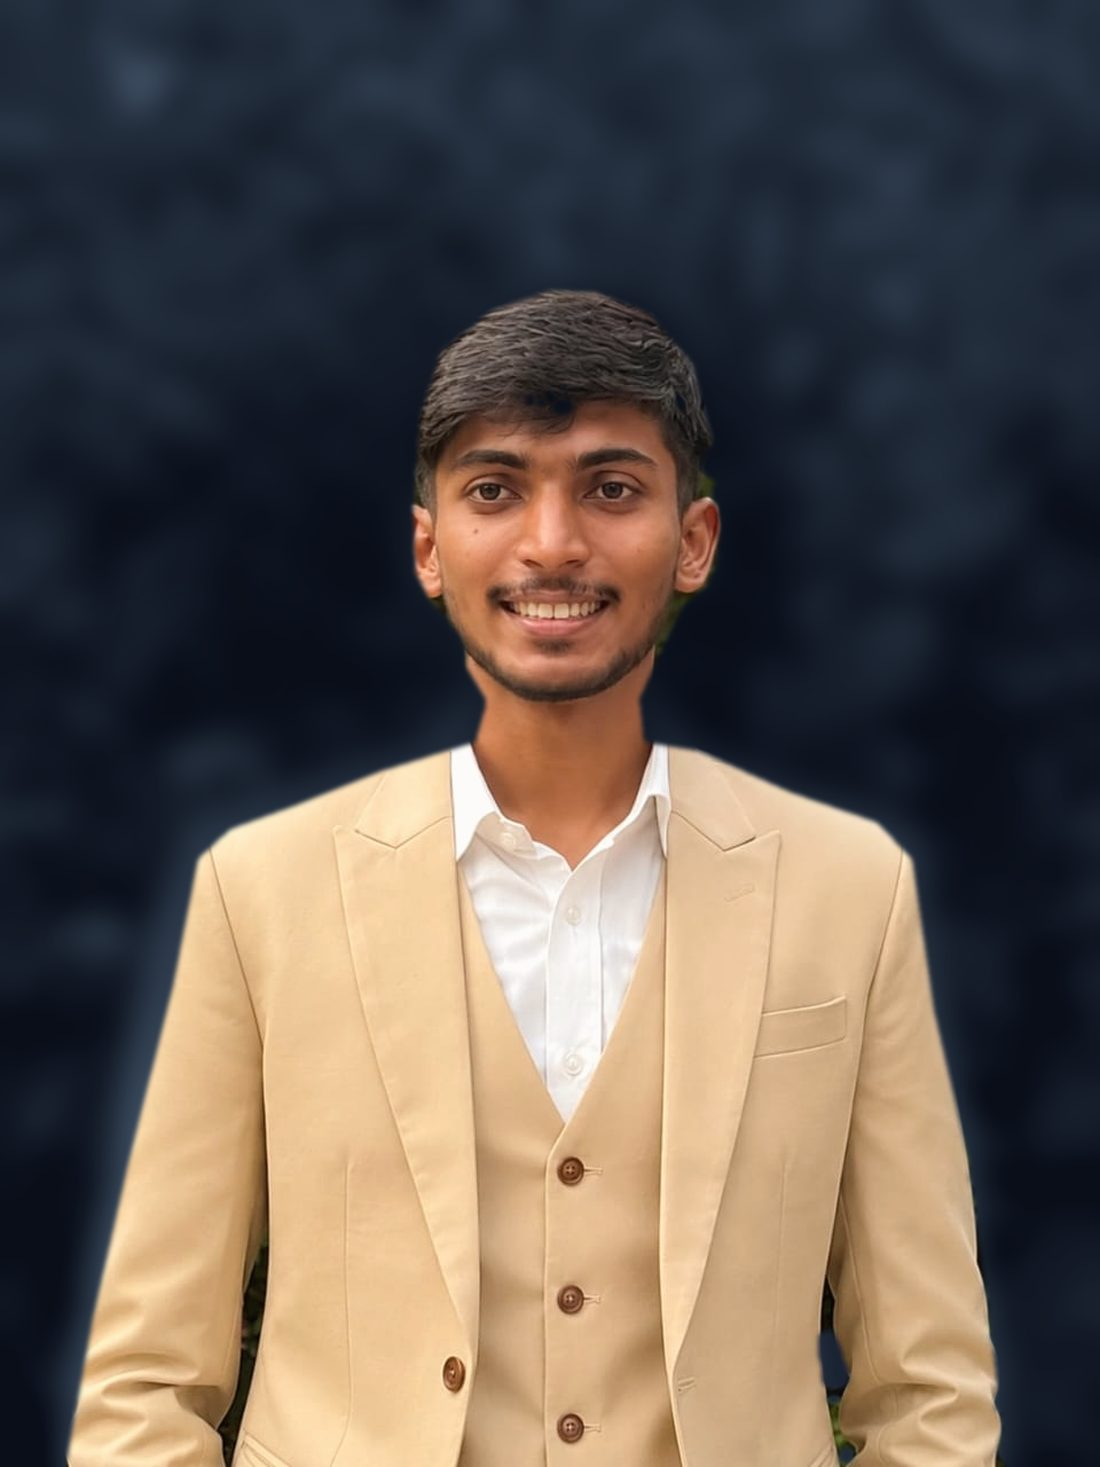
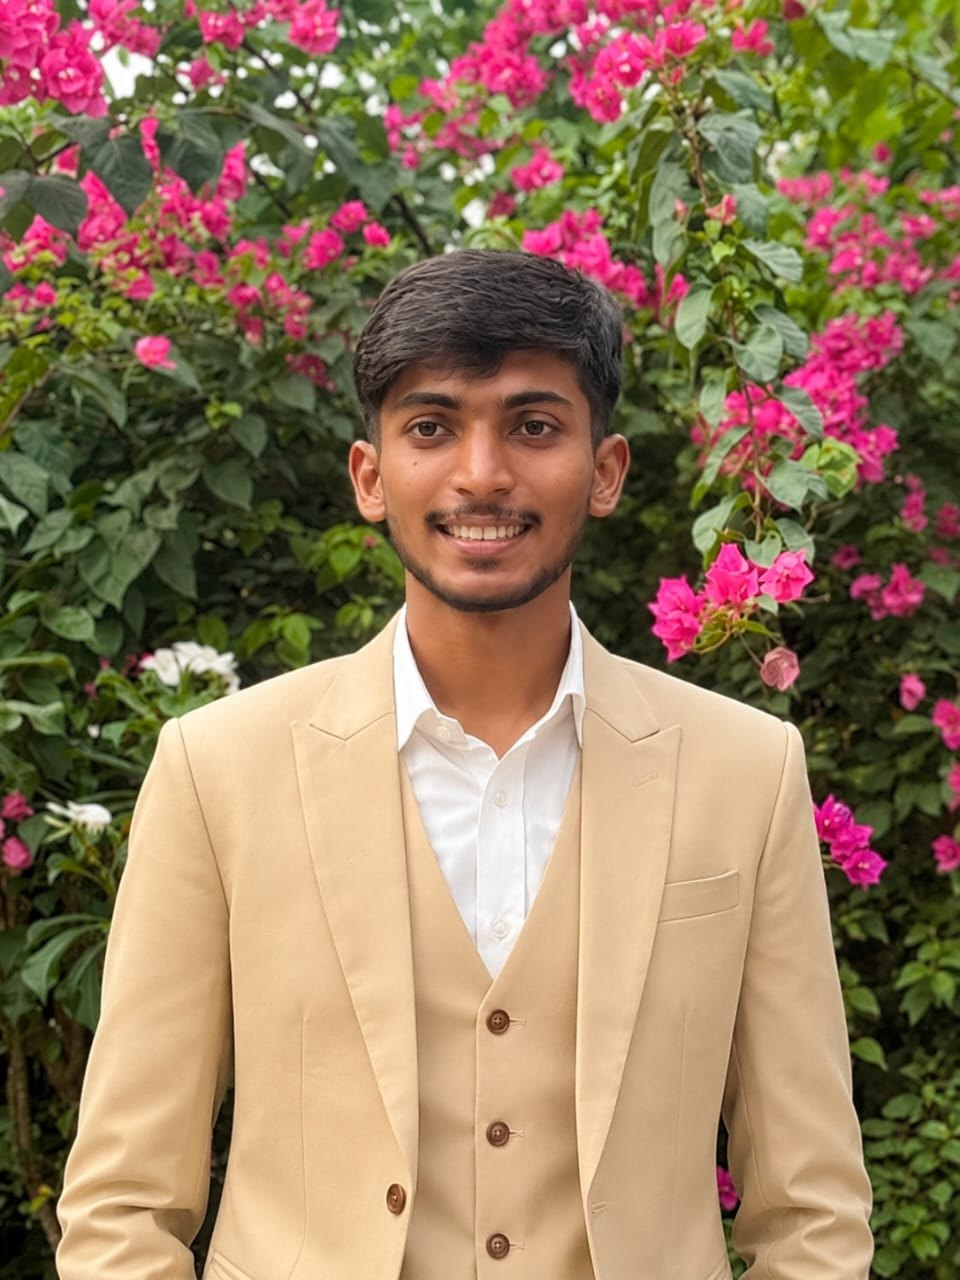
Yash portfolio: scroll-driven circuit-trace backdrop, original portrait photo

diff --git a/src/portfolios/yash/Backdrop.tsx b/src/portfolios/yash/Backdrop.tsx
@@ -1,0 +1,61 @@
+import { motion, useReducedMotion, useScroll, useSpring, useTransform } from "motion/react";
+
+type Seg = [d: string, endX: number, endY: number];
+
+// PCB-style traces kept to the page margins so they never strike through text. Wide screens and phones get their own layout.
+const wide: Seg[] = [
+  ["M0 120H18L34 136V400L18 416V500", 18, 500],
+  ["M0 600H18L34 616V780L18 796V880", 18, 880],
+  ["M1440 200H1350L1310 240V480L1270 520H1190", 1190, 520],
+  ["M1440 640H1380L1340 680V820L1300 860H1120", 1120, 860],
+  ["M1400 0V60L1360 100H1240", 1240, 100],
+];
+const narrow: Seg[] = [
+  ["M0 120H14L26 132V330", 26, 330],
+  ["M390 260H376L364 272V520", 364, 520],
+  ["M0 600H14L26 612V780", 26, 780],
+  ["M390 700H376L364 712V820", 364, 820],
+];
+
+const Traces = ({ paths, box, still }: { paths: Seg[]; box: string; still: boolean }) => {
+  const p = useSpring(useScroll().scrollYProgress, { stiffness: 80, damping: 24 });
+  return (
+    <svg viewBox={box} preserveAspectRatio="xMidYMid slice" fill="none" className="absolute inset-0 h-full w-full">
+      {paths.map(([d, x, y], i) => (
+        <Trace key={d} d={d} x={x} y={y} p={p} k={2 + (i % 3) * 0.6} still={still} />
+      ))}
+    </svg>
+  );
+};
+
+const Trace = ({ d, x, y, p, k, still }: { d: string; x: number; y: number; p: ReturnType<typeof useSpring>; k: number; still: boolean }) => {
+  // Scrolling the whole page runs the pulse k times along the trace.
+  const offset = useTransform(p, [0, 1], [0, -k]);
+  return (
+    <>
+      <path d={d} stroke="rgb(255 255 255 / .14)" strokeWidth="1" strokeLinecap="round" strokeLinejoin="round" />
+      <circle cx={x} cy={y} r="4" stroke="rgb(255 255 255 / .16)" strokeWidth="1" />
+      {!still && (
+        <>
+          <motion.path d={d} pathLength={1} strokeDasharray="0.07 1" stroke="hsl(var(--primary) / .16)" strokeWidth="5" strokeLinecap="round" strokeLinejoin="round" style={{ strokeDashoffset: offset }} />
+          <motion.path d={d} pathLength={1} strokeDasharray="0.07 1" stroke="hsl(var(--primary))" strokeWidth="1.6" strokeLinecap="round" strokeLinejoin="round" style={{ strokeDashoffset: offset }} />
+        </>
+      )}
+    </>
+  );
+};
+
+/** Fixed layer behind the page: PCB traces with a pulse that travels as you scroll. */
+export const Backdrop = () => {
+  const still = !!useReducedMotion();
+  return (
+    <div aria-hidden className="pointer-events-none fixed inset-0 z-0 overflow-hidden">
+      <div className="hidden h-full w-full md:block">
+        <Traces paths={wide} box="0 0 1440 900" still={still} />
+      </div>
+      <div className="h-full w-full md:hidden">
+        <Traces paths={narrow} box="0 0 390 844" still={still} />
+      </div>
+    </div>
+  );
+};

diff --git a/src/portfolios/yash/Portfolio.tsx b/src/portfolios/yash/Portfolio.tsx
@@ -4,6 +4,7 @@ import { motion, useScroll, useSpring } from "motion/react";
 import { ArrowLeft } from "lucide-react";
 import { Button } from "@/components/ui/button";
 import { LiquidFilter } from "./kit";
+import { Backdrop } from "./Backdrop";
 import { Hero } from "./Hero";
 import { Stack } from "./Stack";
 import { Systems } from "./Systems";
@@ -87,9 +88,10 @@ const Portfolio = () => {
     <>
       <LiquidFilter />
       <motion.div aria-hidden style={{ scaleX }} className="fixed inset-x-0 top-0 z-[60] h-0.5 origin-left bg-primary" />
+      <Backdrop />
       <PortfolioNav />
       <Rail />
-      <main>
+      <main className="relative z-10">
         <Hero />
         <Stack />
         <Systems />

diff --git a/src/portfolios/yash/Hero.tsx b/src/portfolios/yash/Hero.tsx
@@ -73,8 +73,8 @@ const Portrait = () => {
             <img
               src={portrait}
               alt="Portrait of Yash Shaw"
-              width={1100}
-              height={1467}
+              width={960}
+              height={1280}
               decoding="async"
               className="h-full w-full object-cover object-[50%_18%]"
             />
